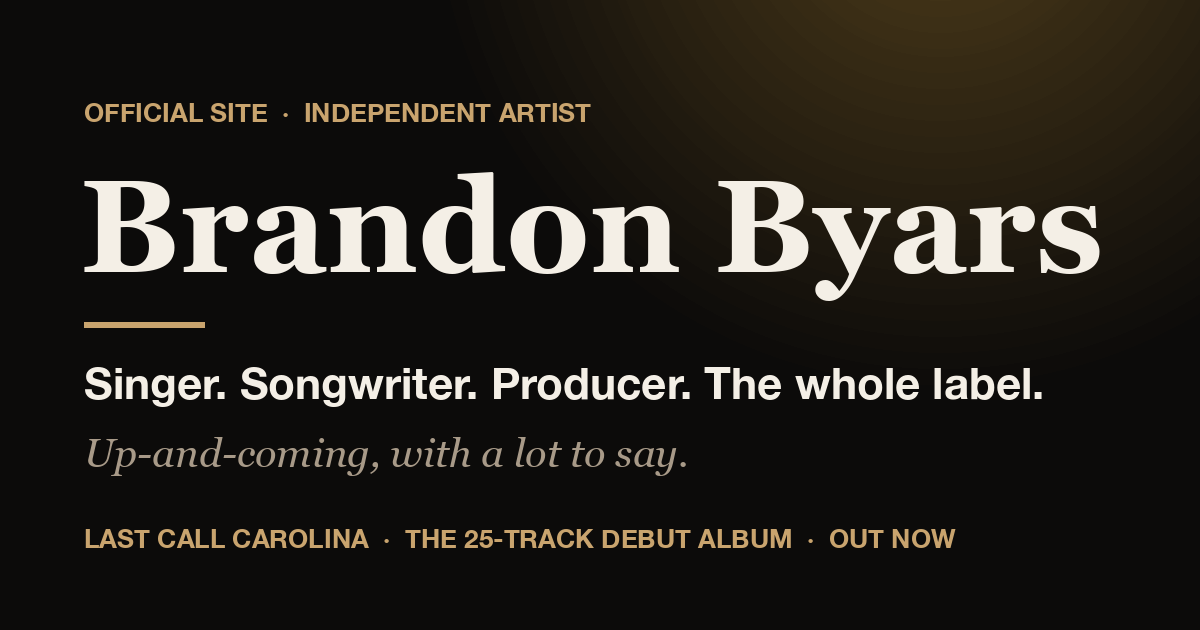
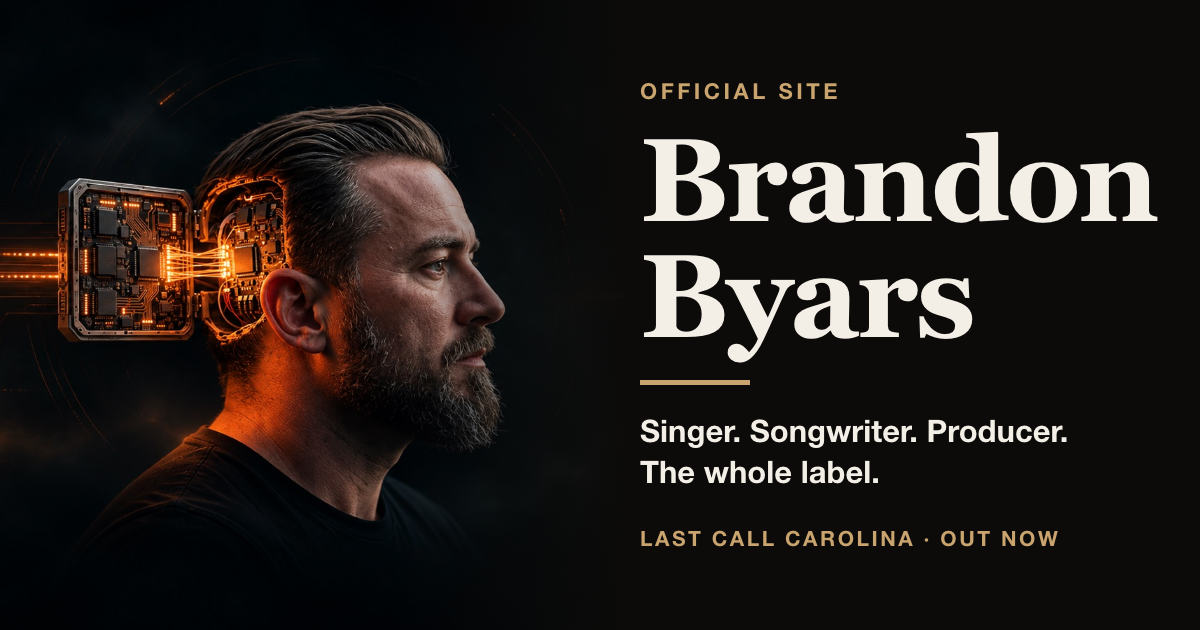
Add artist photo to the page and share card, link X profile

diff --git a/index.html b/index.html
@@ -20,7 +20,7 @@
   <meta property="og:image" content="https://brandowithabanjo.github.io/brandowithabanjo/og-image.png">
   <meta property="og:image:width" content="1200">
   <meta property="og:image:height" content="630">
-  <meta property="og:image:alt" content="Brandon Byars: singer, songwriter, producer">
+  <meta property="og:image:alt" content="Portrait of Brandon Byars, singer, songwriter and producer">
   <meta name="twitter:card" content="summary_large_image">
   <meta name="twitter:title" content="Brandon Byars | Singer, Songwriter &amp; Producer">
   <meta name="twitter:description" content="Up-and-coming artist Brandon Byars has a lot to say. Stream the debut album, Last Call Carolina.">
@@ -54,7 +54,7 @@
         "name": "Brandon Byars",
         "alternateName": "BrandoWithABanjo",
         "url": "https://brandowithabanjo.github.io/brandowithabanjo/",
-        "image": "https://brandowithabanjo.github.io/brandowithabanjo/og-image.png",
+        "image": "https://brandowithabanjo.github.io/brandowithabanjo/brandon-byars.jpg",
         "description": "Brandon Byars is an independent singer, songwriter and producer based in Plano, Texas. He writes, sings, produces and markets his own records.",
         "jobTitle": "Singer, songwriter and producer",
         "genre": ["Country", "Singer-Songwriter"],
@@ -69,7 +69,8 @@
           "https://music.apple.com/us/artist/brandon-byars/1878846292",
           "https://open.spotify.com/artist/72Ods5KRcFT2NpqQcPUy8c",
           "https://www.youtube.com/@BrandonByarsMusic",
-          "https://www.youtube.com/channel/UCFrkgsVo8t1HWYWuJUlPwbw"
+          "https://www.youtube.com/channel/UCFrkgsVo8t1HWYWuJUlPwbw",
+          "https://x.com/BrandosBanjo"
         ],
         "album": { "@id": "https://brandowithabanjo.github.io/brandowithabanjo/#last-call-carolina" }
       },
@@ -129,6 +130,10 @@
     .roles { font-size: clamp(1.05rem, 3.2vw, 1.35rem); font-weight: 600; margin: 0 0 .5rem; }
     .lead { font-family: ui-serif, "New York", Georgia, serif; font-style: italic; font-size: clamp(1.15rem, 3.4vw, 1.45rem); color: var(--ink); margin: .2rem 0 .3rem; }
     .muted { color: var(--muted); }
+    .hero { display: flex; align-items: center; gap: 1.5rem; }
+    .hero > div { flex: 1; min-width: 0; }
+    .portrait { width: 220px; height: 220px; flex: none; border-radius: 16px; border: 1px solid var(--line); object-fit: cover; }
+    @media (max-width: 640px) { .hero { flex-direction: column-reverse; align-items: flex-start; gap: 1rem; } .portrait { width: 140px; height: 140px; } }
     .cta {
       background: linear-gradient(135deg, #c9a46e, #a67c3d);
       color: #111; padding: 1.25rem 1.1rem; border-radius: 12px; text-align: center; margin: 1.6rem 0 0;
@@ -148,10 +153,15 @@
 <body>
   <div class="wrap">
     <header>
-      <div class="tag">Official site · Independent artist · Plano, Texas</div>
-      <h1>Brandon Byars</h1>
-      <p class="roles">Singer. Songwriter. Producer. The whole label.</p>
-      <p class="lead">Up-and-coming artist Brandon Byars has a lot to say.</p>
+      <div class="hero">
+        <div>
+          <div class="tag">Official site · Independent artist · Plano, Texas</div>
+          <h1>Brandon Byars</h1>
+          <p class="roles">Singer. Songwriter. Producer. The whole label.</p>
+          <p class="lead">Up-and-coming artist Brandon Byars has a lot to say.</p>
+        </div>
+        <img class="portrait" src="brandon-byars.jpg" width="900" height="900" alt="Portrait of Brandon Byars, singer, songwriter and producer">
+      </div>
 
       <div class="cta">
         Hear the 25-track debut album, <em>Last Call Carolina</em><br>
